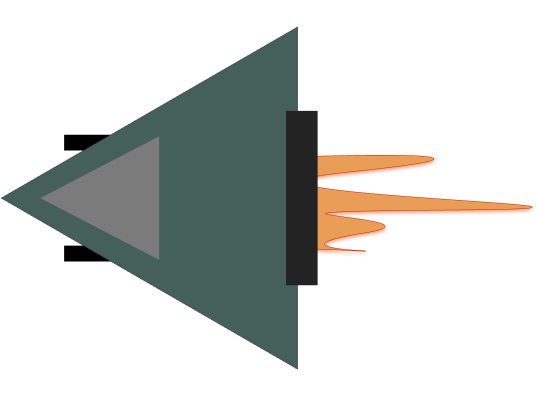
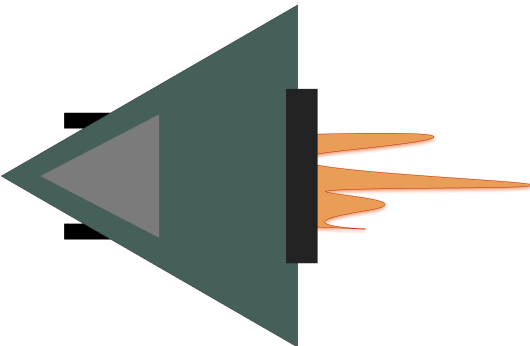
fixed padding on plane and tank

diff --git a/COMP4945_Assignment2/Plane.cs b/COMP4945_Assignment2/Plane.cs
@@ -8,7 +8,7 @@ namespace COMP4945_Assignment2
         public Plane(Point location, Guid id) : base(location, id)
         {
             Speed = 15;
-            image.Size = new Size(80, 80);
+            image.Size = new Size(100, 65);
             image.Image = Properties.Resources.s_left;
             Player = 1;
         }

diff --git a/COMP4945_Assignment2/Tank.cs b/COMP4945_Assignment2/Tank.cs
@@ -8,7 +8,7 @@ namespace COMP4945_Assignment2
 
         public Tank(Point location, Guid id) : base(location, id)
         {
-            image.Size = new Size(50, 50);
+            image.Size = new Size(50, 60);
             image.Image = Properties.Resources.Tank_Up;
             Player = 0;
         }
